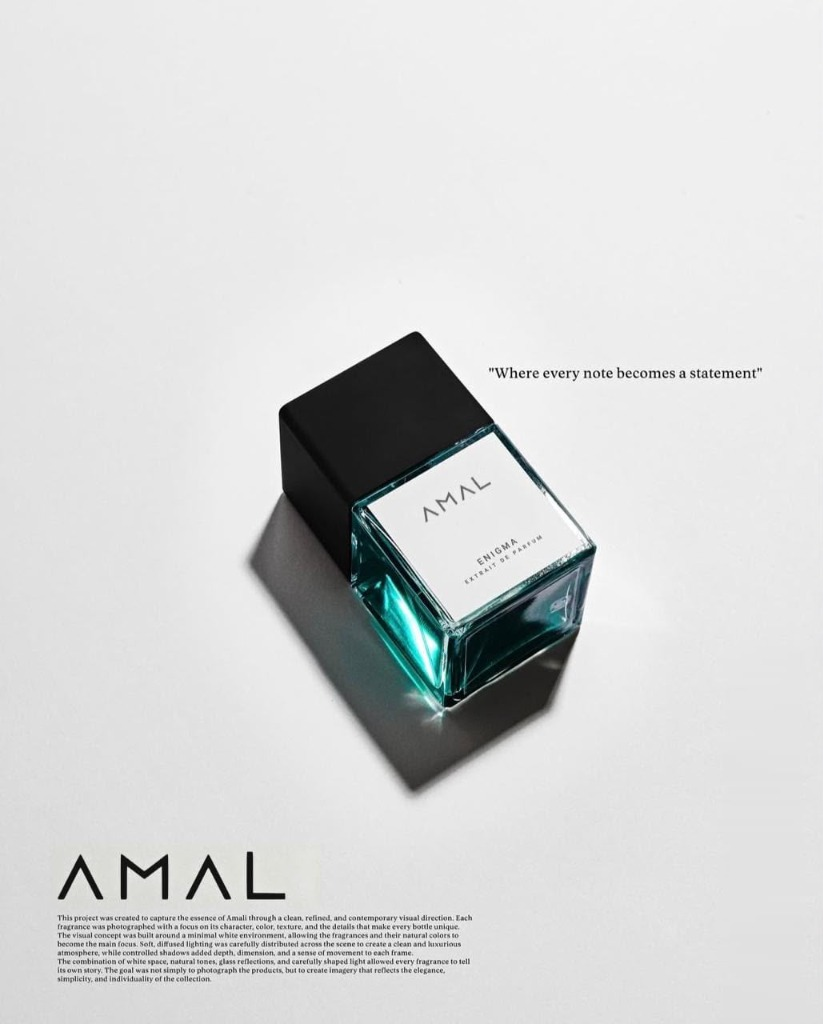
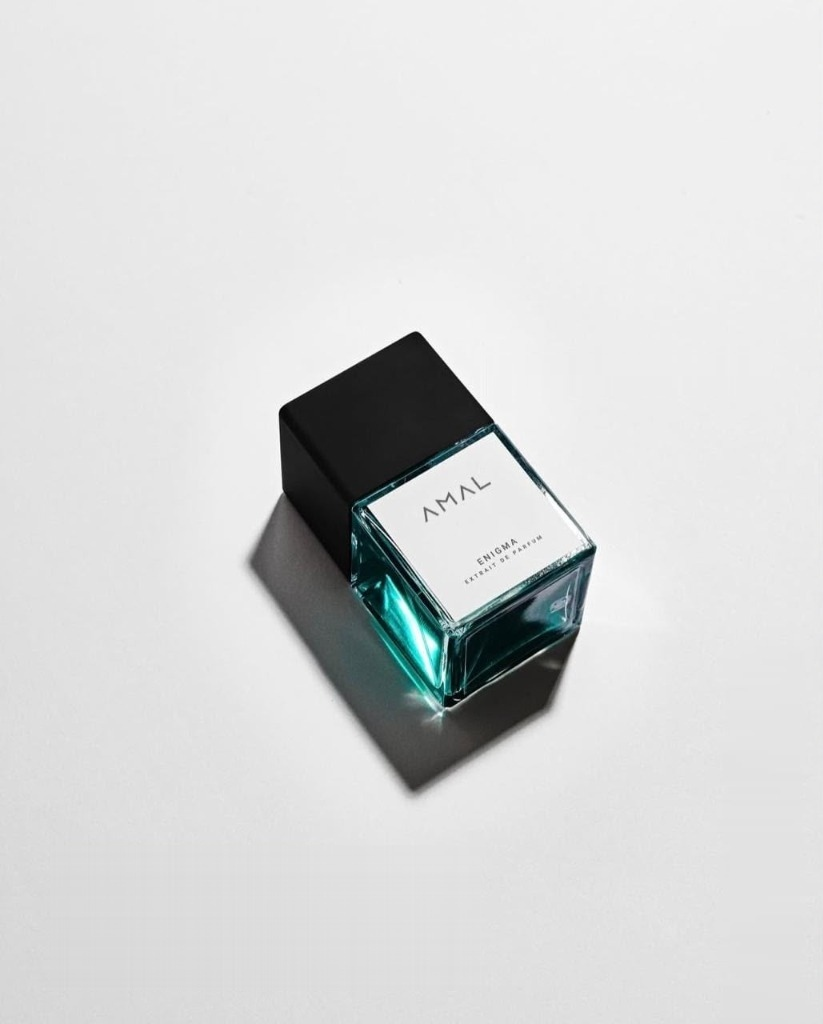
fix(storefront): remove text from product images and refine card badges layout to prevent overwrite

Changed region(s): [[0.0608, 0.8125, 0.5772, 0.9688], [0.6075, 0.3438, 0.9113, 0.375]]

diff --git a/src/components/storefront/ProductCard.tsx b/src/components/storefront/ProductCard.tsx
@@ -127,19 +127,19 @@ export default function ProductCard({ product, priority = false }: ProductCardPr
         </Link>
 
         {/* Badges */}
-        <div className="absolute top-2 left-2 sm:top-2.5 sm:left-2.5 flex flex-col gap-1.5 z-10">
+        <div className="absolute top-2.5 left-2.5 flex flex-wrap items-center gap-1.5 z-10 pointer-events-none">
           {discount > 0 && (
-            <span className="bg-red-600 text-white text-[9px] sm:text-[10px] uppercase font-bold tracking-wider px-2 py-0.5 rounded shadow-sm">
+            <span className="bg-stone-950/90 text-amber-300 text-[9px] sm:text-[10px] uppercase font-bold tracking-wider px-2.5 py-0.5 rounded-md shadow-sm backdrop-blur-xs border border-stone-800">
               {discount}% OFF
             </span>
           )}
           {product.isTrending && (
-             <span className="bg-amber-600 text-white text-[9px] sm:text-[10px] uppercase font-bold tracking-wider px-2 py-0.5 rounded shadow-sm flex items-center gap-1">
-               <Flame size={10} /> Trending
+             <span className="bg-amber-800/90 text-amber-100 text-[9px] sm:text-[10px] uppercase font-bold tracking-wider px-2 py-0.5 rounded-md shadow-sm backdrop-blur-xs flex items-center gap-1 border border-amber-700/60">
+               <Flame size={10} className="text-amber-300 fill-amber-300" /> Trending
              </span>
           )}
-          {product.isNewArrival && !product.isTrending && (
-            <span className="bg-white/95 backdrop-blur-md text-stone-900 text-[9px] sm:text-[10px] uppercase font-bold tracking-wider px-2 py-0.5 rounded shadow-sm border border-stone-200">
+          {product.isNewArrival && !product.isTrending && discount === 0 && (
+            <span className="bg-white/95 backdrop-blur-md text-stone-900 text-[9px] sm:text-[10px] uppercase font-bold tracking-wider px-2 py-0.5 rounded-md shadow-sm border border-stone-200">
               New
             </span>
           )}
